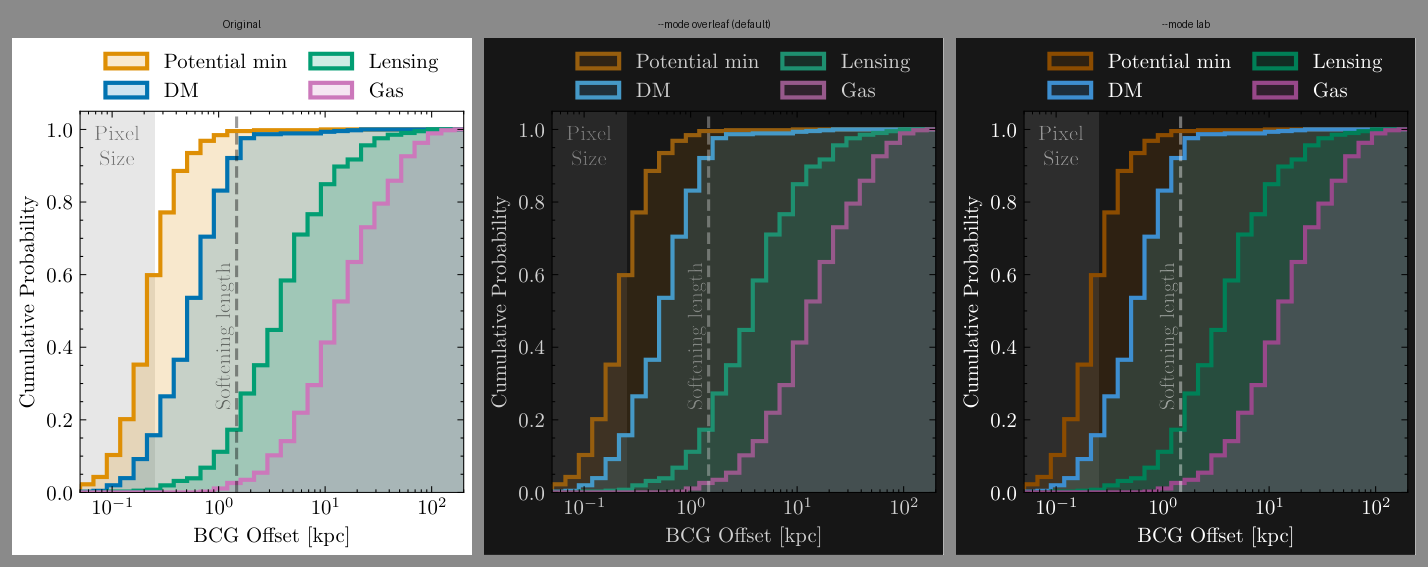
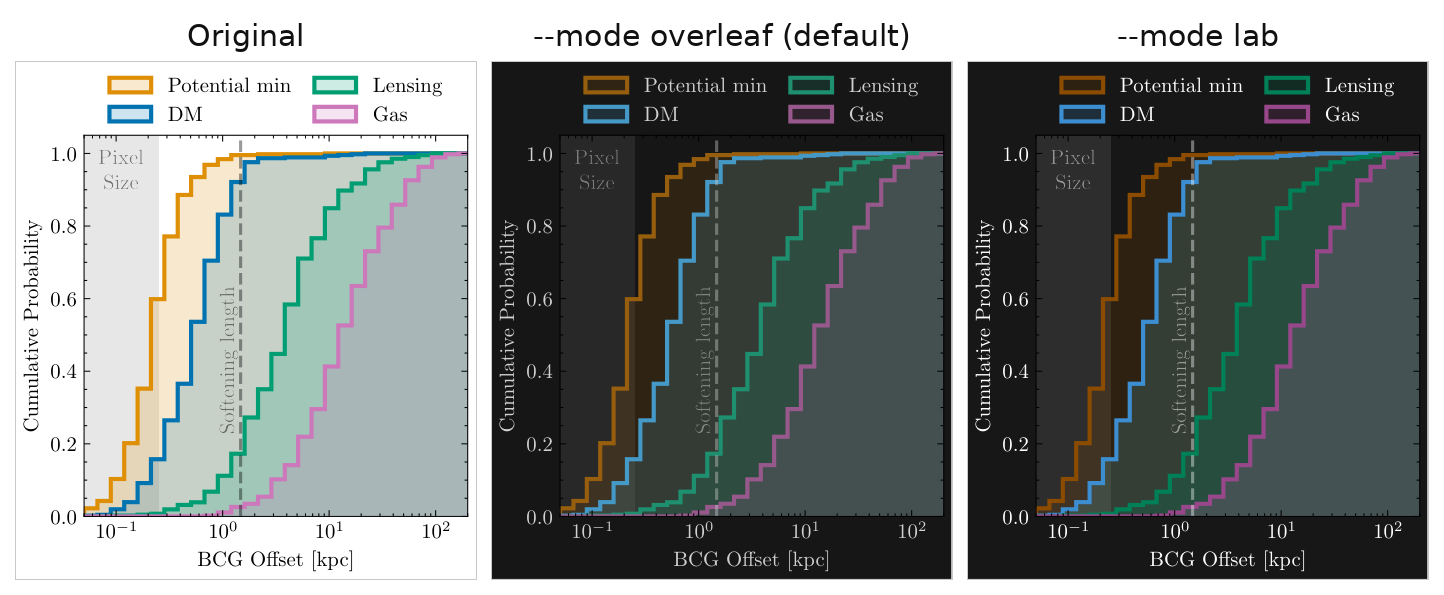
Comparison strip on white with larger headings; tighten README instructions
Outline each panel so the white original stays visible on a white ground.
Add a uv prerequisite link and cut the install/usage prose.

diff --git a/examples/make_examples.py b/examples/make_examples.py
@@ -28,7 +28,28 @@ def convert():
                         "-m", mode, "-o", str(out), "-q"], check=True)
 
 
-def contact_sheet(path, dpi=150, pad=12, label_h=26):
+FONT_CANDIDATES = [
+    "/System/Library/Fonts/Supplemental/Arial.ttf",       # macOS
+    "/System/Library/Fonts/Helvetica.ttc",                # macOS
+    "/usr/share/fonts/truetype/dejavu/DejaVuSans.ttf",    # Debian/Ubuntu
+    "/usr/share/fonts/dejavu/DejaVuSans.ttf",             # Fedora
+]
+
+
+def _font(size):
+    from PIL import ImageFont
+    for path in FONT_CANDIDATES:
+        try:
+            return ImageFont.truetype(path, size)
+        except OSError:
+            continue
+    try:
+        return ImageFont.load_default(size=size)          # Pillow >= 10.1
+    except TypeError:
+        return ImageFont.load_default()
+
+
+def contact_sheet(path, dpi=150, pad=16, label_h=46, font_size=30):
     import pymupdf
     from PIL import Image, ImageDraw
 
@@ -39,13 +60,19 @@ def contact_sheet(path, dpi=150, pad=12, label_h=26):
 
     w, h = tiles[0].size
     sheet = Image.new("RGB", (len(tiles) * w + (len(tiles) + 1) * pad,
-                              h + 2 * pad + label_h), "#8a8a8a")
+                              h + 2 * pad + label_h), "white")
     draw = ImageDraw.Draw(sheet)
+    font = _font(font_size)
+
     for i, (tile, (label, _)) in enumerate(zip(tiles, PANELS)):
         x = pad + i * (w + pad)
-        sheet.paste(tile, (x, pad + label_h))
-        draw.text((x + (w - draw.textlength(label)) / 2, pad + 6),
-                  label, fill="#101010")
+        y = pad + label_h
+        sheet.paste(tile, (x, y))
+        # The original panel is white-on-white, so outline every tile.
+        draw.rectangle([x - 1, y - 1, x + w, y + h], outline="#c8c8c8", width=1)
+        tw = draw.textlength(label, font=font)
+        draw.text((x + (w - tw) / 2, pad + 2), label, fill="#111111", font=font)
+
     sheet.save(path)
     return sheet.size
 

diff --git a/README.md b/README.md
@@ -4,131 +4,86 @@
 [![License: MIT](https://img.shields.io/badge/License-MIT-blue.svg)](LICENSE)
 
 Dark-background versions of figures — PDF, SVG, PNG/JPG — without screenshotting
-a PDF viewer.
+a PDF viewer. **PDFs and SVGs stay vector**: colour operators are rewritten in
+place, so text stays selectable and nothing is rasterised.
 
 ![before and after](examples/before-after.png)
 
 <sub>Example figure from Roche et al. (2024), *Brightest Cluster Galaxy Offsets
 in Cold Dark Matter*, The Open Journal of Astrophysics
-([arXiv:2402.00928](https://arxiv.org/abs/2402.00928)). Both dark versions are
-still vector PDFs — text selectable, no rasterisation.</sub>
-
-If you write LaTeX and want dark figures, the usual hack is to compile, switch
-the PDF viewer to dark mode, and screenshot the figure out of the page. That is
-lossy, unrepeatable, and gives you a raster crop of what was a vector drawing.
-This does the transform directly on the figure file.
-
-**PDFs and SVGs stay vector.** Colour operators are rewritten in place, so text
-stays selectable, curves stay sharp at any zoom, and the file size barely
-changes. Nothing is rasterised.
+([arXiv:2402.00928](https://arxiv.org/abs/2402.00928)).</sub>
 
 ## Install
 
-You do not need to clone it to use it:
+Requires [uv](https://docs.astral.sh/uv/getting-started/installation/).
 
 ```bash
 uv tool install git+https://github.com/CianMRoche/figure-inversion
 ```
 
-Or run it once without installing:
+## Use
 
 ```bash
-uvx --from git+https://github.com/CianMRoche/figure-inversion figinvert fig.pdf
+figinvert fig.pdf              # -> fig_dark.pdf
+figinvert fig.pdf -m lab       # punchier
+figinvert *.png -t             # transparent background
+figinvert fig.svg -o out.svg
 ```
 
-Or from a clone:
+## Modes
 
-```bash
-git clone https://github.com/CianMRoche/figure-inversion
-cd figure-inversion
-uv tool install --editable .     # --editable: source edits apply immediately
-```
-
-`uv` puts the executable in `~/.local/bin`. If that is not on your `PATH`, run
-`uv tool update-shell` and restart your shell. Without `uv`, `pipx install .` or
-`pip install .` work too. Python 3.10+.
-
-## Usage
-
-```bash
-figinvert fig.pdf                  # -> fig_dark.pdf, still vector
-figinvert fig.pdf --mode lab       # punchier alternative
-figinvert *.png --transparent      # no background at all
-figinvert fig.svg -o dark/fig.svg
-figinvert fig.pdf --chroma 1.25    # boost saturation on dark
-```
-
-### Modes
-
-| mode | white becomes | black becomes | notes |
+| mode | white → | black → | |
 |---|---|---|---|
 | `overleaf` *(default)* | `#171717` | `#d1d1d1` | approximates the Overleaf PDF inversion |
 | `lab` | `#171717` | `#ffffff` | flips CIELAB lightness, keeps hue and chroma |
 | `naive` | `#000000` | `#ffffff` | plain `255-x`; destroys hue, for comparison |
 
-`overleaf` reproduces what you get from screenshotting a dark PDF viewer. `lab`
-puts the background on the same `#171717` but takes black all the way to white
-instead of stopping at `#d1d1d1`, so lines are more saturated and text has more
-contrast. Try both on a real figure.
+`overleaf` matches what screenshotting a dark PDF viewer gives you. `lab` uses
+the same background but takes black all the way to white, so more contrast and
+more saturated lines. Both preserve hue; `naive` turns a blue line orange, which
+is why the other two exist.
 
-`naive` exists to show why the other two are needed: inverting each channel
-independently turns a blue line orange, because it flips *hue* along with
-lightness. `overleaf` and `lab` both preserve hue.
+## Options
 
-### How accurate is `overleaf` mode?
-
-It was fitted to a 36-swatch calibration target rendered through a real Overleaf
-PDF inversion and screenshotted, so these numbers are measured, not guessed:
-
-- **Neutral tones are exact by construction.** White lands on `#171717` and
-  black on `#d1d1d1`, matching the measurement to within a rounding step.
-  Backgrounds and greyscale text are most of what you look at, so output reads
-  correctly.
-- **Chromatic colours are approximate.** RMSE 10/255, worst case 37/255. Greens
-  and cyans come out lighter here than in the real thing.
-- The residuals are *structured* rather than random, which means the true filter
-  is **not** in the modelled family (invert → hue-rotate about the luma axis →
-  affine). It could not be identified from the calibration data alone.
-
-Notably, a 4-parameter filter chain outperformed a 30-parameter polynomial fit,
-which points to clamping behaviour in the real filter that this model does not
-reproduce. If you know the exact CSS filter your viewer or extension applies,
-encoding it directly beats fitting — the constants are at the top of
-[`src/figinvert/colour.py`](src/figinvert/colour.py).
-
-### Options
-
-| flag | meaning |
+| flag | |
 |---|---|
 | `-m, --mode` | `overleaf` (default), `lab`, `naive` |
 | `-t, --transparent` | drop the background instead of darkening it |
-| `-o, --output` | explicit output path (single input only) |
+| `-o, --output` | output path (single input only) |
 | `--suffix` | rename suffix, default `_dark` |
-| `--overwrite` | edit in place instead of writing a new file |
+| `--overwrite` | edit in place |
 | `--chroma` | saturation multiplier for `lab`, e.g. `1.25` |
 | `--range LO HI` | `lab` output L\* range, default `7.74 100` |
 | `--bg-method` | raster transparency: `unmix` (default) or `key` |
 | `--no-image-recolour` | leave rasters embedded in a PDF untouched |
 
-### `--transparent`
+**`--transparent`** — PDF/SVG: a white shape covering ≥95% of the page is
+dropped. Raster `unmix` (default) recovers antialiased coverage from a white
+ground, exact for lines and text but solid light fills go partly transparent;
+use `key` for bar charts and filled regions.
 
-- **PDF / SVG** — a white shape covering ≥95% of the page is dropped.
-- **Raster, `unmix` (default)** — recovers antialiased coverage from a white
-  ground (`c = a·k + (1−a)·1`). Exact for lines, glyphs and axes; **solid
-  light-coloured fills come out partly transparent**, so use `key` for bar
-  charts and filled regions.
-- **Raster, `key`** — keys out the corner colour. Keeps fills opaque, but leaves
-  faint halos on antialiased edges.
+**Heatmaps** — use `--no-image-recolour`, or an inverted viridis image stops
+meaning what its colourbar says.
 
-### Colormap images
+## Accuracy of `overleaf` mode
 
-`--no-image-recolour` leaves rasters embedded in a PDF alone. Use it for
-heatmaps: inverting a viridis image makes the colormap no longer mean what its
-colourbar says.
+Fitted to a 36-swatch calibration target rendered through a real Overleaf
+inversion and screenshotted, so these are measured, not guessed:
 
-## Using it from LaTeX
+- **Neutral tones are exact by construction** — white → `#171717`, black →
+  `#d1d1d1`, matching to within a rounding step. Backgrounds and greyscale text
+  are most of what you see, so output reads correctly.
+- **Chromatic colours are approximate** — RMSE 10/255, worst case 37/255. Greens
+  and cyans come out lighter than the real thing.
+- Residuals are *structured*, not random, so the true filter is **not** in the
+  modelled family (invert → hue-rotate about the luma axis → affine). It could
+  not be identified from the calibration data alone. A 4-parameter chain beat a
+  30-parameter polynomial, pointing at clamping this model does not reproduce.
 
-Generate both versions and switch on a flag:
+Know the exact CSS filter your viewer applies? Encoding it beats fitting — the
+constants are at the top of [`src/figinvert/colour.py`](src/figinvert/colour.py).
+
+## In LaTeX
 
 ```latex
 \newif\ifdark\darktrue
@@ -136,15 +91,10 @@ Generate both versions and switch on a flag:
   \ifdark\includegraphics[#1]{#2_dark}\else\includegraphics[#1]{#2}\fi}
 ```
 
-```latex
-\fig[width=.8\linewidth]{plots/response}
-```
-
-If your figures come from matplotlib and you still have the plotting scripts,
-re-rendering with a dark style will always beat inverting — the inverter cannot
-know that a grey gridline should get *more* contrast on dark, not less. This
-tool is for figures whose source you no longer have, or that came from
-elsewhere.
+If the figure came from matplotlib and you still have the script, re-rendering
+with a dark style beats inverting — the inverter cannot know a grey gridline
+needs *more* contrast on dark, not less. This is for figures whose source you no
+longer have.
 
 ## Development
 
@@ -155,52 +105,33 @@ uv sync --group dev
 uv run pytest -q
 ```
 
-The test fixtures build minimal PDFs, SVGs and PNGs by hand rather than pulling
-in matplotlib, so the suite runs on the runtime dependencies plus pytest. To
-regenerate the converted examples and the comparison strip:
-
-```bash
-uv run --group dev python examples/make_examples.py
-```
-
-### Example figure
-
-`examples/bcg-offsets.pdf` is a published figure from:
-
-> Cian Roche, Michael McDonald, Josh Borrow, Mark Vogelsberger, Xuejian Shen,
-> Volker Springel, Lars Hernquist, Ruediger Pakmor, Sownak Bose and Rahul
-> Kannan, *Brightest Cluster Galaxy Offsets in Cold Dark Matter*,
-> The Open Journal of Astrophysics, 2024.
-> [arXiv:2402.00928](https://arxiv.org/abs/2402.00928)
-
-It is a useful test case as well as an illustration: it mixes vector strokes,
-LaTeX-rendered text, semi-transparent fills and an **indexed-palette raster**,
-which is exactly the combination that exposed a colour-space bug during
-development (see `tests/test_formats.py`).
-
-### Layout
+Fixtures build minimal PDFs, SVGs and PNGs by hand, so the suite needs only the
+runtime dependencies plus pytest. Regenerate the examples and comparison strip
+with `uv run --group dev python examples/make_examples.py`.
 
 ```
 src/figinvert/
-  colour.py   colour transforms + the fitted constants
+  colour.py   colour transforms + fitted constants
   pdf.py      vector PDF backend (pikepdf content-stream rewriting)
   svg.py      SVG backend (lxml attribute/CSS rewriting)
   raster.py   PNG/JPEG backend (Pillow)
   cli.py      argument parsing and dispatch
-tests/        pytest suite, including regressions for three real bugs
 ```
+
+`examples/bcg-offsets.pdf` is a figure from Roche et al. (2024) above. It
+doubles as a test case: vector strokes, LaTeX text, semi-transparent fills and
+an indexed-palette raster — the combination that exposed a colour-space bug
+during development (see `tests/test_formats.py`).
 
 ## Limitations
 
 - PDF shadings and pattern / `Separation` colour spaces are left untouched.
 - The transparency heuristic keys on "white shape covering most of the page"; a
   figure whose real content is a full-bleed white rectangle would lose it.
-- `overleaf` mode is approximate for saturated colours (see above).
-- CMYK fills are converted through RGB, so an exact CMYK round-trip is not
-  guaranteed.
-- Indexed (palette) images are recoloured by transforming the palette, which is
-  lossless and keeps the file small. Images in ICCBased or Lab palettes are left
-  untouched.
+- `overleaf` mode is approximate for saturated colours (above).
+- CMYK fills round-trip through RGB, so exact CMYK is not preserved.
+- Indexed images are recoloured via their palette (lossless, keeps files small);
+  ICCBased and Lab palettes are left alone.
 
 ## Licence
 
